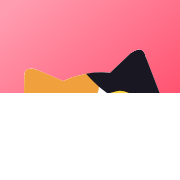
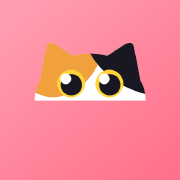
파비콘/앱 아이콘 구도 개선 (아래 흰 영역 제거)
- 기존 아이콘은 고양이 흰 몸통이 하단 절반을 채워 파비콘에서 잘려 보임
- 얼굴(귀+눈) 중심 구도로 재구성해 코랄 배경이 꽉 차도록 수정
- favicon.svg(라운드), PWA 아이콘 192/512·apple-touch(풀블리드) 갱신
- 서비스워커 캐시 v2 로 올려 이전 아이콘 캐시 정리

Claude-Session: https://claude.ai/code/session_01K76ABz9fAUpb5f3hLZ5QRi

diff --git a/client/public/sw.js b/client/public/sw.js
@@ -1,5 +1,5 @@
 // 가캣부 PWA 서비스 워커 — 같은 출처 정적 자원만 캐시, Supabase 등 외부 요청은 건드리지 않음.
-const CACHE = 'gacatboo-v1';
+const CACHE = 'gacatboo-v2';
 
 self.addEventListener('install', () => self.skipWaiting());
 self.addEventListener('activate', (e) => {
